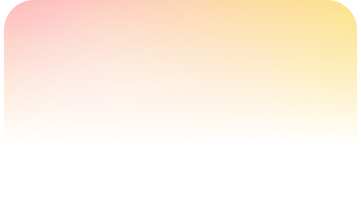
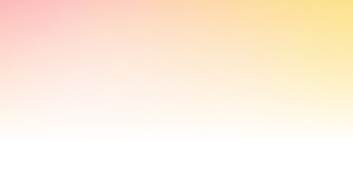
Fixed guide card background

Changed region(s): [[0.9037, 0.0, 1.0, 0.7059], [0.0, 0.0, 0.0935, 0.6176]]

diff --git a/css/home.min.css b/css/home.min.css
@@ -1,1 +1,1 @@
-*,*::after,*::before{box-sizing:border-box;padding:0;margin:0}a{text-decoration:none;color:inherit;cursor:pointer}ul{list-style:none}img{display:block}button{border:none;background-color:rgba(0,0,0,0);cursor:pointer}.container{padding:0 20px;margin:0 auto;width:100%}.scrollbar-no::-webkit-scrollbar{background-color:rgba(0,0,0,0);width:0;height:0}.scrollbar-no::-webkit-scrollbar-thumb{background-color:rgba(0,0,0,0)}.scrollbar-no::-webkit-scrollbar-track{background-color:rgba(0,0,0,0)}html{color:#000;font-family:"Quicksand",sans-serif;font-weight:700;font-size:16px;line-height:1.25;background-color:#fff}html,body{height:100%}.bar{height:54px;background-image:url("/images/bg_home.webp");background-repeat:no-repeat;background-size:100% 239px;background-blend-mode:hard-light;backdrop-filter:blur(25px)}.header{position:fixed;z-index:999999;top:0;left:0;display:flex;align-items:flex-start;justify-content:space-between;height:37px;background-image:url("/images/bg_home.webp");background-repeat:no-repeat;background-size:100% 239px;background-position-y:-54px;background-blend-mode:hard-light;backdrop-filter:blur(25px)}.wrapper{max-height:100%;overflow:auto}.main{min-height:calc(100% - 37px - 54px);background-image:url("/images/bg_home.webp");background-repeat:no-repeat;background-size:100% 239px;margin-top:37px;padding:12px 0 54px;background-position-y:-91px}.footer{position:fixed;z-index:999999;bottom:0;left:0;height:54px;background-color:rgba(255,255,255,.7);-webkit-backdrop-filter:blur(40px);backdrop-filter:blur(40px);padding-top:7px}.header .navigation{display:flex;gap:12px}.header .navigation__coin,.header .navigation__notifications,.header .navigation__bookmarks,.header .navigation__menu,.header .navigation__coin a,.header .navigation__notifications a,.header .navigation__bookmarks a,.header .navigation__menu a{display:flex;align-items:center;justify-content:center}.header .navigation__coin span{min-width:40px}.header .navigation__coin a{gap:4px}.header .navigation__notifications a,.header .navigation__bookmarks a,.header .navigation__menu a{width:25px;height:24px}.section:first-child{margin-top:9px}.section:not(:last-child){margin-bottom:22px}.section__header{display:flex;align-items:center;justify-content:space-between;margin-bottom:13px}.section__title{font-size:22px}.section__link{font-size:14px;color:#0050ff}.card{position:relative;max-width:480px;margin:0 auto;border-radius:30px;box-shadow:0px 4px 24px 0px rgba(0,0,0,.1)}.card__title{font-size:22px}.card__btn{display:flex;height:24px}.card__buttons{position:absolute;top:21px;right:18px;display:flex;flex-direction:column;align-items:center;gap:7px;justify-content:space-around}.user{display:inline-flex;align-items:center;gap:7px}.user__photo{border-radius:50%;overflow:hidden}.user__name{font-size:17px;margin:0}.user__position{font-size:10px;opacity:.6;font-weight:500}.coins{padding-bottom:12px}.coins__more{font-size:14px;color:#0050ff}.coins__balance{display:flex;align-items:center;gap:8px;padding-bottom:11px;border-bottom:1px solid #d7d7d7;margin-bottom:9px}.coins__value{font-size:50px}.coins__description{font-size:13px;font-weight:600;color:#484d5c}.guide__card{display:flex;gap:8px;min-height:200px;overflow:hidden;background-repeat:no-repeat;background-size:105% 100%;background-position:center;background-image:url("/images/card_guide.png");background-color:rgba(255,255,255,.7)}.guide__img{align-self:flex-end}.guide__descr{padding:18px 22px 20px 0}.guide__header{padding-right:18px;margin-bottom:9px;min-height:2em}.guide__text{font-size:13px;font-weight:600;color:#484d5c}.guide__btn{justify-content:center;width:20px}.guide__buttons{fill:#484d5c}.reels__list{display:flex;gap:10px;justify-content:start;overflow-y:auto;-webkit-overflow-scrolling:touch;font-size:13px;color:#fff;padding-bottom:24px}@media(min-width: 830px){.reels__list{justify-content:center}}.reels__card{flex-shrink:0;border-radius:10px;overflow:hidden;position:relative;box-shadow:0px 8px 24px 0px rgba(0,0,0,.1),0px 0px 24px 0px rgba(0,0,0,.05) inset}.reels__card:hover{box-shadow:0px 8px 24px 0px rgba(0,0,0,.3),0px 0px 24px 0px rgba(0,0,0,.1) inset}.reels__card svg{fill:#fff}.reels__button--bookmark{position:absolute;top:12px;right:11px}.reels__button--up{position:absolute;bottom:10px;left:9px}.reels__button--up a{display:flex;align-items:center;gap:4px}.reels__button--arrow{position:absolute;bottom:10px;right:11px}.agree__card{padding:24px 18px 24px 14px;background:#fff}.agree__description{margin-right:40px;line-height:28px;letter-spacing:-0.4px}.agree__btn{justify-content:end;width:25px}.agree__buttons{top:17px;right:20px;gap:14px}.agree__reaction{display:flex;justify-content:space-between;width:100%;margin-top:20px;padding:12px 47px 10px;border-radius:100px;background:#f8f3f3}.hot__title{display:flex;align-items:center;gap:.5em}.hot__list{display:flex;gap:10px;overflow-y:auto;padding-bottom:24px;-webkit-overflow-scrolling:touch;font-size:13px;color:#fff}.hot__card{flex-shrink:0;border-radius:30px;overflow:hidden;box-shadow:0px 8px 24px 0px rgba(0,0,0,.1),0px 0px 24px 0px rgba(0,0,0,.05) inset}.hot__card:hover{box-shadow:0px 8px 24px 0px rgba(0,0,0,.3),0px 0px 24px 0px rgba(0,0,0,.1) inset}.education__logo{height:33px;margin-bottom:6px}.education__header{margin-bottom:0}.education__description{font-size:15px;line-height:20px;letter-spacing:-0.4px;margin-bottom:11px}.education__list{display:flex;justify-content:start;gap:10px;overflow-y:auto;-webkit-overflow-scrolling:touch;font-size:10px;font-weight:600;color:#484d5c}@media(min-width: 640px){.education__list{justify-content:center}}.education__card{flex-shrink:0;width:157px}.education__card .card__info{padding:18px 9px 13px 23px}.education__card .card__button{display:inline-block;height:13px;min-width:36px;padding:0 4px;margin-bottom:6px;border-radius:4px;background-color:#000;color:#fff;text-transform:uppercase;font-weight:700;line-height:normal}.footer__nav{display:flex;justify-content:center;gap:17px;font-size:10px;margin:0 auto;padding:0 15px}.footer__link{display:flex;flex-direction:column;justify-content:space-between;align-items:center;height:40px;width:48px;color:#484d5c}.footer__link svg{fill:#484d5c}.footer__link:active,.footer__link:hover,.footer__link:focus,.footer__link--active{color:#0050ff}.footer__link:active svg,.footer__link:hover svg,.footer__link:focus svg,.footer__link--active svg{fill:#0050ff}/*# sourceMappingURL=home.min.css.map */
+*,*::after,*::before{box-sizing:border-box;padding:0;margin:0}a{text-decoration:none;color:inherit;cursor:pointer}ul{list-style:none}img{display:block}button{border:none;background-color:rgba(0,0,0,0);cursor:pointer}.container{padding:0 20px;margin:0 auto;width:100%}.scrollbar-no::-webkit-scrollbar{background-color:rgba(0,0,0,0);width:0;height:0}.scrollbar-no::-webkit-scrollbar-thumb{background-color:rgba(0,0,0,0)}.scrollbar-no::-webkit-scrollbar-track{background-color:rgba(0,0,0,0)}html{color:#000;font-family:"Quicksand",sans-serif;font-weight:700;font-size:16px;line-height:1.25;background-color:#fff}html,body{height:100%}.bar{height:54px;background-image:url("/images/bg_home.webp");background-repeat:no-repeat;background-size:100% 239px;background-blend-mode:hard-light;backdrop-filter:blur(25px)}.header{position:fixed;z-index:999999;top:0;left:0;display:flex;align-items:flex-start;justify-content:space-between;height:37px;background-image:url("/images/bg_home.webp");background-repeat:no-repeat;background-size:100% 239px;background-position-y:-54px;background-blend-mode:hard-light;backdrop-filter:blur(25px)}.wrapper{max-height:100%;overflow:auto}.main{min-height:calc(100% - 37px - 54px);background-image:url("/images/bg_home.webp");background-repeat:no-repeat;background-size:100% 239px;margin-top:37px;padding:12px 0 54px;background-position-y:-91px}.footer{position:fixed;z-index:999999;bottom:0;left:0;height:54px;background-color:rgba(255,255,255,.7);-webkit-backdrop-filter:blur(40px);backdrop-filter:blur(40px);padding-top:7px}.header .navigation{display:flex;gap:12px}.header .navigation__coin,.header .navigation__notifications,.header .navigation__bookmarks,.header .navigation__menu,.header .navigation__coin a,.header .navigation__notifications a,.header .navigation__bookmarks a,.header .navigation__menu a{display:flex;align-items:center;justify-content:center}.header .navigation__coin span{min-width:40px}.header .navigation__coin a{gap:4px}.header .navigation__notifications a,.header .navigation__bookmarks a,.header .navigation__menu a{width:25px;height:24px}.section:first-child{margin-top:9px}.section:not(:last-child){margin-bottom:22px}.section__header{display:flex;align-items:center;justify-content:space-between;margin-bottom:13px}.section__title{font-size:22px}.section__link{font-size:14px;color:#0050ff}.card{position:relative;max-width:480px;margin:0 auto;overflow:hidden;border-radius:30px;border-radius:30px;box-shadow:0px 4px 24px 0px rgba(0,0,0,.1)}.card__title{font-size:22px}.card__btn{display:flex;height:24px}.card__buttons{position:absolute;top:21px;right:18px;display:flex;flex-direction:column;align-items:center;gap:7px;justify-content:space-around}.user{display:inline-flex;align-items:center;gap:7px}.user__photo{border-radius:50%;overflow:hidden}.user__name{font-size:17px;margin:0}.user__position{font-size:10px;opacity:.6;font-weight:500}.coins{padding-bottom:12px}.coins__more{font-size:14px;color:#0050ff}.coins__balance{display:flex;align-items:center;gap:8px;padding-bottom:11px;border-bottom:1px solid #d7d7d7;margin-bottom:9px}.coins__value{font-size:50px}.coins__description{font-size:13px;font-weight:600;color:#484d5c}.guide__card{display:flex;gap:8px;min-height:200px;background-repeat:no-repeat;background-size:100% 243px;background-repeat:no-repeat;background-position-y:-73px;background-image:url("/images/card_guide.png");background-color:rgba(255,255,255,.7)}.guide__img{align-self:flex-end}.guide__descr{padding:18px 22px 20px 0}.guide__header{padding-right:18px;margin-bottom:9px;min-height:2em}.guide__text{font-size:13px;font-weight:600;color:#484d5c}.guide__btn{justify-content:center;width:20px}.guide__buttons{fill:#484d5c}.reels__list{display:flex;gap:10px;justify-content:start;overflow-y:auto;-webkit-overflow-scrolling:touch;font-size:13px;color:#fff;padding-bottom:24px}@media(min-width: 830px){.reels__list{justify-content:center}}.reels__card{flex-shrink:0;border-radius:10px;overflow:hidden;position:relative;box-shadow:0px 8px 24px 0px rgba(0,0,0,.1),0px 0px 24px 0px rgba(0,0,0,.05) inset}.reels__card:hover{box-shadow:0px 8px 24px 0px rgba(0,0,0,.3),0px 0px 24px 0px rgba(0,0,0,.1) inset}.reels__card svg{fill:#fff}.reels__button--bookmark{position:absolute;top:12px;right:11px}.reels__button--up{position:absolute;bottom:10px;left:9px}.reels__button--up a{display:flex;align-items:center;gap:4px}.reels__button--arrow{position:absolute;bottom:10px;right:11px}.agree__card{padding:24px 18px 24px 14px;background:#fff}.agree__description{margin-right:40px;line-height:28px;letter-spacing:-0.4px}.agree__btn{justify-content:end;width:25px}.agree__buttons{top:17px;right:20px;gap:14px}.agree__reaction{display:flex;justify-content:space-between;width:100%;margin-top:20px;padding:12px 47px 10px;border-radius:100px;background:#f8f3f3}.hot__title{display:flex;align-items:center;gap:.5em}.hot__list{display:flex;gap:10px;overflow-y:auto;padding-bottom:24px;-webkit-overflow-scrolling:touch;font-size:13px;color:#fff}.hot__card{flex-shrink:0;box-shadow:0px 8px 24px 0px rgba(0,0,0,.1),0px 0px 24px 0px rgba(0,0,0,.05) inset}.hot__card:hover{box-shadow:0px 8px 24px 0px rgba(0,0,0,.3),0px 0px 24px 0px rgba(0,0,0,.1) inset}.education__logo{height:33px;margin-bottom:6px}.education__header{margin-bottom:0}.education__description{font-size:15px;line-height:20px;letter-spacing:-0.4px;margin-bottom:11px}.education__list{display:flex;justify-content:start;gap:10px;overflow-y:auto;-webkit-overflow-scrolling:touch;font-size:10px;font-weight:600;color:#484d5c}@media(min-width: 640px){.education__list{justify-content:center}}.education__card{flex-shrink:0;width:157px}.education__card .card__info{padding:18px 9px 13px 23px}.education__card .card__button{display:inline-block;height:13px;min-width:36px;padding:0 4px;margin-bottom:6px;border-radius:4px;background-color:#000;color:#fff;text-transform:uppercase;font-weight:700;line-height:normal}.footer__nav{display:flex;justify-content:center;gap:17px;font-size:10px;margin:0 auto;padding:0 15px}.footer__link{display:flex;flex-direction:column;justify-content:space-between;align-items:center;height:40px;width:48px;color:#484d5c}.footer__link svg{fill:#484d5c}.footer__link:active,.footer__link:hover,.footer__link:focus,.footer__link--active{color:#0050ff}.footer__link:active svg,.footer__link:hover svg,.footer__link:focus svg,.footer__link--active svg{fill:#0050ff}/*# sourceMappingURL=home.min.css.map */

diff --git a/index.html b/index.html
@@ -524,7 +524,7 @@
             <a class="section__link">See All</a>
           </div>
           <ul class="hot__list container scrollbar-no">
-            <li class="hot__card">
+            <li class="hot__card card">
               <img
                 src="/images/hot_1.webp"
                 alt="hot"
@@ -532,7 +532,7 @@
                 width="320"
               />
             </li>
-            <li class="hot__card">
+            <li class="hot__card card">
               <img
                 src="/images/hot_1.webp"
                 alt="hot"
@@ -540,7 +540,7 @@
                 width="320"
               />
             </li>
-            <li class="hot__card">
+            <li class="hot__card card">
               <img
                 src="/images/hot_2.webp"
                 alt="hot"
@@ -548,7 +548,7 @@
                 width="320"
               />
             </li>
-            <li class="hot__card">
+            <li class="hot__card card">
               <img
                 src="/images/hot_2.webp"
                 alt="hot"
@@ -556,7 +556,7 @@
                 width="320"
               />
             </li>
-            <li class="hot__card">
+            <li class="hot__card card">
               <img
                 src="/images/hot_3.webp"
                 alt="hot"
@@ -564,7 +564,7 @@
                 width="320"
               />
             </li>
-            <li class="hot__card">
+            <li class="hot__card card">
               <img
                 src="/images/hot_3.webp"
                 alt="hot"

diff --git a/css/home.css b/css/home.css
@@ -155,6 +155,8 @@ body {
   position: relative;
   max-width: 480px;
   margin: 0 auto;
+  overflow: hidden;
+  border-radius: 30px;
   border-radius: 30px;
   box-shadow: 0px 4px 24px 0px rgba(0, 0, 0, 0.1);
 }
@@ -223,10 +225,10 @@ body {
   display: flex;
   gap: 8px;
   min-height: 200px;
-  overflow: hidden;
   background-repeat: no-repeat;
-  background-size: 105% 100%;
-  background-position: center;
+  background-size: 100% 243px;
+  background-repeat: no-repeat;
+  background-position-y: -73px;
   background-image: url("/images/card_guide.png");
   background-color: rgba(255, 255, 255, 0.7);
 }
@@ -347,8 +349,6 @@ body {
 }
 .hot__card {
   flex-shrink: 0;
-  border-radius: 30px;
-  overflow: hidden;
   box-shadow: 0px 8px 24px 0px rgba(0, 0, 0, 0.1), 0px 0px 24px 0px rgba(0, 0, 0, 0.05) inset;
 }
 .hot__card:hover {

diff --git a/sass/pages/home/_main.scss b/sass/pages/home/_main.scss
@@ -29,6 +29,9 @@
   max-width: $max-width-card-element;
   margin: 0 auto;
 
+  overflow: hidden;
+  border-radius: 30px;
+
   border-radius: 30px;
   box-shadow: $shadow-1;
 
@@ -110,11 +113,11 @@
     display: flex;
     gap: 8px;
     min-height: 200px;
-    overflow: hidden;
 
     background-repeat: no-repeat;
-    background-size: 105% 100%;
-    background-position: center;
+    background-size: 100% 243px;
+    background-repeat: no-repeat;
+    background-position-y: -73px;
     background-image: url('/images/card_guide.png');
     background-color: $background-secondary;
   }
@@ -266,8 +269,6 @@
 
   &__card {
     flex-shrink: 0;
-    border-radius: 30px;
-    overflow: hidden;
     box-shadow: $shadow-2;
 
     &:hover {
